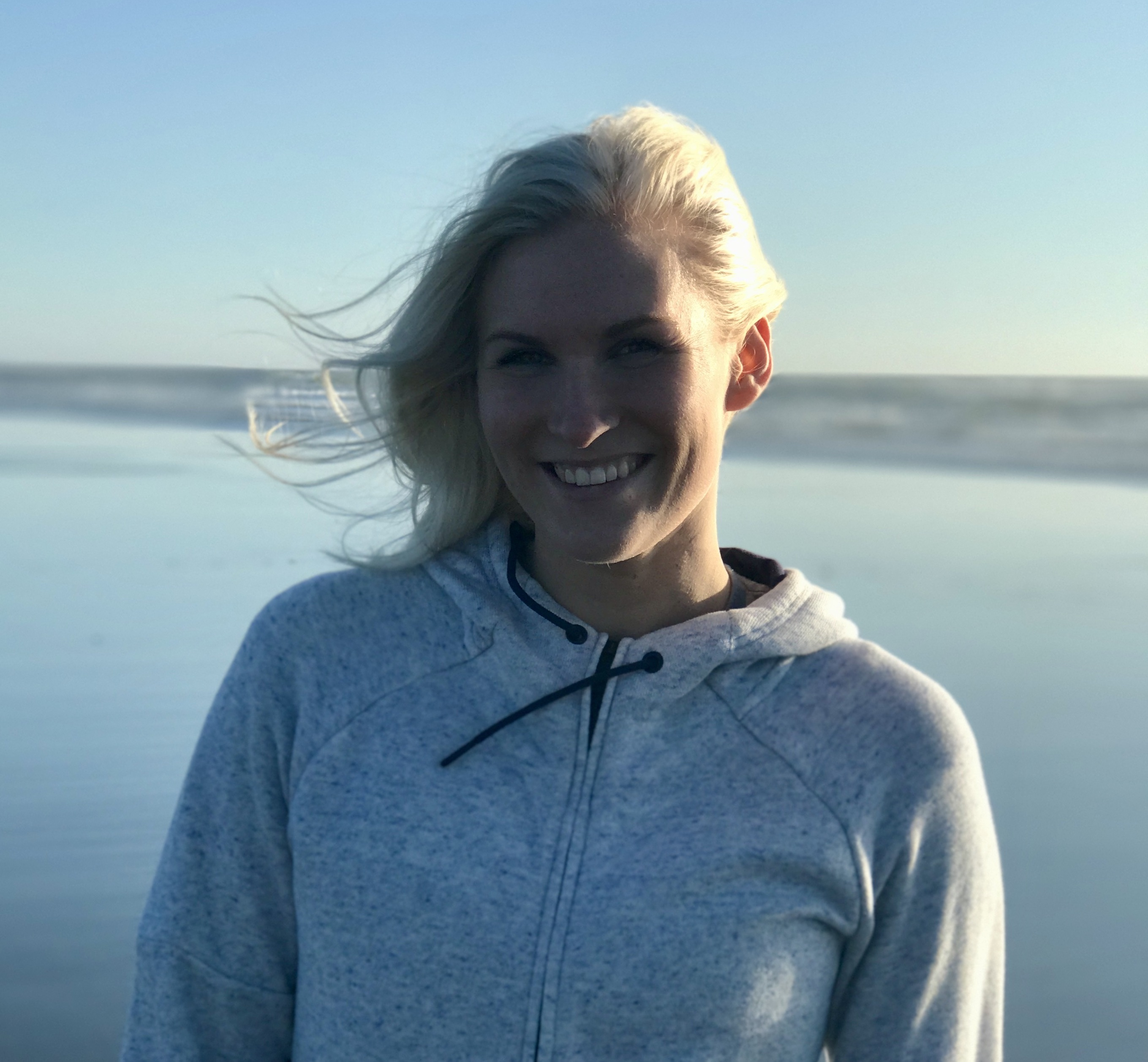
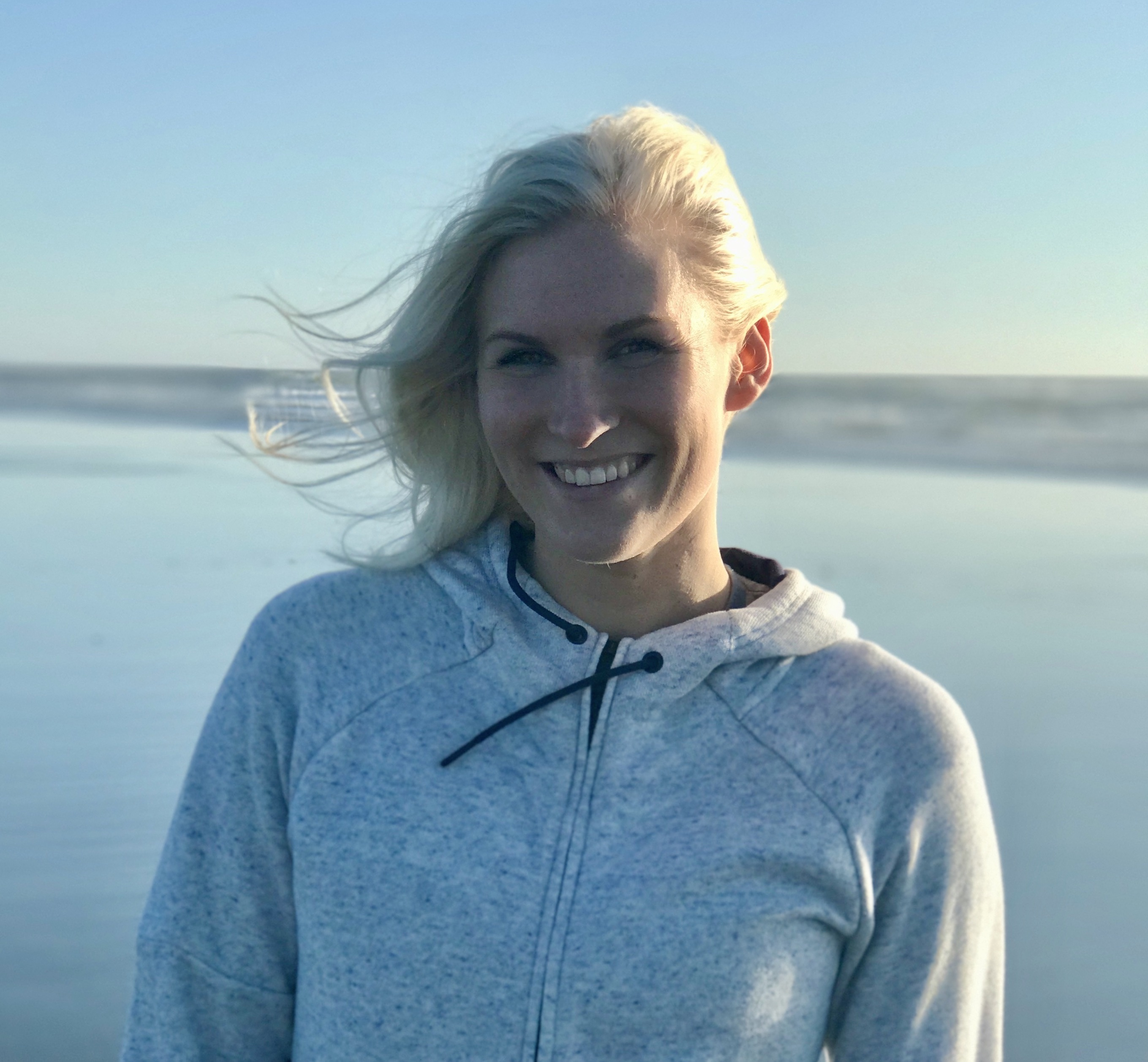
fixed the header bar from covering section titles when using page nav, edited intro profile picture to have less shadow, changed some of the wording in paragraphs, changed size of index and name to ‘contents’, index is now an ordered list with numbers showing and items to the left, changed button si

diff --git a/main/index.html b/main/index.html
@@ -11,9 +11,15 @@
     <link rel="stylesheet" href="style.css">
 </head>
 <body>
+
+    <!--*** bioSite Header ***-->
+
     <header class="header">
         <h4><a id="bioSite" href="#top">bioSite</a></h4>
     </header>
+
+    <!--*** Intro Section ***-->
+
     <div id="top">
         <h1>Kristen Crawford</h1>
         <hr>
@@ -22,21 +28,27 @@
                 <img id="profile-img" src="imgs/kc1.jpeg" alt="Portrait of Kristen">
             </figure>
             <div id="intro">
-                <p>Kristen is 27 years old from Pendleton, Oregon which is a small town in Eastern Oregon. She has spent most of her life (18 years) in a small town for which she says, "played a large part of who I am today." She currently lives in Portland now and enjoys the city life even as it differs very much from where she grew up. Kristen was a talented softball player growing up, often leading many of her youth teams to championships in tournaments and in league play. At the high school level and even in college she continued this successful run. She was also involved in Dance and other activities throughout her youth -- she explains, "I never wanted to settle for something early on, I knew I was a natural at certain things, but I wanted to try everything and keep my mind open to new experiences."</p>
+                <p>Kristen is 27 years old from Pendleton, Oregon which is a small town in Eastern Oregon. She has spent most of her life (18 years) in a small town for which she says, "played a large part of who I am today." She currently lives in Portland now and enjoys the city life even as it differs very much from where she grew up. Kristen was a talented softball pitcher growing up, often leading many of her youth teams to championships in tournaments and in league play. At the high school level and even in college she continued this successful run. She was also involved in Dance and other activities throughout her youth -- she explains, "I never wanted to settle for something early on, I knew I was a natural at certain things, but I wanted to try everything and keep my mind open to new experiences."</p>
             </div>
         </div>
     </div>
+ 
+    <!--*** Page Navigation ***-->
+
     <div id="index">
-        <h5>Table of Contents</h5>
-        <ul class="content2">
+        <h5>Contents</h5>
+        <ol class="content2">
             <li class="button"><a class="no-line" href="#childhood">Childhood</a></li>
             <li class="button"><a class="no-line" href="#hs">High School & Sports</a></li>
             <li class="button"><a class="no-line" href="#college">College & Softball</a></li>
             <li class="button"><a class="no-line" href="#career">Career</a></li>
             <li class="button"><a class="no-line" href="#present">Motherhood & Present</a></li>
             <li class="button"><a class="no-line" href="#misc">Miscellaneous</a></li>
-        </ul>
+        </ol>
     </div>
+
+        <!--*** Childhood Section ***-->
+
     <div id="childhood">
         <h2>Childhood</h2>
         <hr>
@@ -47,6 +59,9 @@
             </div>
         </div>
     </div>
+
+    <!--*** High School Section ***-->
+
     <div id="hs">
         <h2>High School & Sports</h2>
         <hr>
@@ -56,16 +71,19 @@
                 <figcaption>Kristen holding the Oregon High School 5A State Championship trophy.</figcaption>
             </figure>
             <div class="padsides">
-                <p>As mentioned, in high school extracurricular activities were a big part of Kristen’s life, she was involved in many things from sports and dance to social gatherings and working part-time as a server at the same time. She became a server in a high-end restaurant called <em>Cimmyotti's</em> at the age of 16 years old. When she talks about this experience, she describes that it had a large influence in helping her gain confidence with her people skills - something she relies on daily for her current career. Softball became a focal point at this point in her life and she was successful with it as well. She was a talented pitcher who led her teams to state championships in her junior and senior year. In 2012, she was named Oregon state player of the year as a senior.</p>
+                <p>Kristen was a student at Pendleton High School, where extracurricular activities became a large part of Kristen’s life. She was involved in many things from sports and dance to social gatherings, working part-time as a server and of course, being a student. She was a server in a high-end restaurant called <em>Cimmyotti's</em> at the age of 16 years old. When she talks about this experience, she describes that it had a large influence in helping her gain confidence with her people skills - something she relies on daily for her current career. Softball became a focal point at this stage in her life and she was successful with it as well. She was a talented pitcher who led her teams to state championships in her junior and senior years. In 2012, she was named Oregon Player of the Year as a senior at Pendleton High School.</p>
             </div>
         </div>
     </div>
+
+    <!--*** College Section ***-->
+
     <div id="college">
         <h2>College & Softball</h2>
         <hr>
         <div class="content">
             <div class="padsides">
-                <p>After high school Kristen attended community college at Mount Hood CC in Gresham, Oregon. Softball became even more important to her at this point in her life because it was now her main activity outside of school. In 2014, Kristen's Sophomore year, she once again led her team to a league title in the NWAC and was named Player of the Year. She finished the majority of her general studies at Mount Hood CC and transferred to Portland State University on a full ride athletic scholarship. <a href="http://pointstreak.com/baseball/team_stats.html?teamid=31279&seasonid=27364&view=pitching" target="_blank">Kristen's 2014 MHCC softball statistics</a>.</p>
+                <p>After high school, Kristen attended community college at Mount Hood CC in Gresham, Oregon. Softball became even more important to her at this point in her life because it was now her main activity outside of school. In 2014, Kristen's Sophomore year, she once again led her team to a league title in the NWAC and was named Player of the Year. She finished the majority of her general studies at Mount Hood CC and transferred to Portland State University on a full ride athletic scholarship. <a href="http://pointstreak.com/baseball/team_stats.html?teamid=31279&seasonid=27364&view=pitching" target="_blank">Kristen's 2014 MHCC softball statistics</a>.</p>
                 <p>At this point in her sporting career, Softball started to take a backseat due to the rocky relationship the coach had formed with the team, she said "took some of the fun out of the sport for everyone." The fact that she was going to be graduating soon also played a role as Kristen began to focus on her future more so than she had before. Although, she still found some success, her highest point at PSU came when she won Player of the Month in February 2016 playing in this highly competitive league. Kristen graduated from Portland State in 2016 with a Bachelor's Degree in communications.</p>
             </div>
             <figure id="mhcc-fig">
@@ -81,6 +99,9 @@
             </figure>
         </div>
     </div>
+
+    <!--*** Career Section ***-->
+
     <div id="career">
         <h2>Career</h2>
         <hr>
@@ -95,6 +116,9 @@
             </figure>
         </div>
     </div>
+
+    <!--*** Present Day Section ***-->
+
     <div id="present">
         <h2>Motherhood & Present Day</h2>
         <hr>
@@ -106,10 +130,13 @@
                 </figure>
             </div>
             <div class="padsides">
-                <p>On June 16, 2018 – Kristen became a mother to a beautiful child, Willow Watson. She now balances her life, hectic work schedule and partnership all while being a caring, responsible mother, which she describes as “the biggest challenge of all.” She plans to stay in Portland, Oregon long-term but hopes to travel and give Willow the opportunity to see new parts of the world like she loved to do as a kid.</p>
+                <p>On June 16, 2018 – Kristen became a mother to a beautiful child, Willow Watson. She now balances her personal life, hectic work schedule and partnership -- all while being a caring, responsible mother, which she describes as “the biggest challenge of all.” She plans to stay in Portland, Oregon long-term but hopes to travel and give Willow the opportunity to see new parts of the world like she loved to do as a kid.</p>
             </div>
         </div>
     </div>
+
+    <!--*** Misc Section ***-->
+
     <div id="misc">
         <h2>Miscellaneous</h2>
         <hr>
@@ -117,12 +144,15 @@
             <div class="padsides">
                 <ul>
                     <li>Kristen loves to adventure. She will often spend free time outdoors - camping, water activities, hiking or travelling.</li>
-                    <li>Kristen's personality is courageous, confident and adaptable. She likes to have fun as much as possible but knows when to turn it on when she needs.</li>
-                    <li>Other achievements include: Netflix bingeing, high-level diaper changing and holds the record for most popsicles consumed in a Summer.</li>
+                    <li>Kristen's personality is courageous, confident and adaptable. She likes to have fun as much as possible but knows how to be serious when she needs it.</li>
+                    <li>Other achievements include: Netflix bingeing, high-level diaper changing and holds the record for most popsicles consumed in one Summer.</li>
                 </ul>
             </div>
         </div>
     </div>
+
+    <!--*** Author Footer ***-->
+
     <footer class="footer">
         <address>
             Created by Mark Watson<br>

diff --git a/main/style.css b/main/style.css
@@ -6,6 +6,7 @@ html {
     font-family: 'Bitter', serif;
     background: #f8f8ff;
     color: #5F5261;
+    scroll-padding-top: var(--top-spacing);
 }
 
 body {
@@ -21,11 +22,14 @@ h1, h2, h5 {
 
 h1 {
     font-size: 3.052em;
-    margin-top: 0;
+    margin-top: -35px;
+    padding-top: 35px;
 }
 
 h2 {
     font-size: 2.441em;
+    margin-top: -20px;
+    padding-top: 35px;
 }
 
 h4 {
@@ -56,7 +60,7 @@ hr {
     height: 1px;
     background-color: #D8A7CA;
     border: none;
-    margin: 0 5px;
+    margin: 0 5px 15px;
 }
 
 a:hover {
@@ -110,6 +114,7 @@ address {
     border: 1px solid #BEAFDD;
     font-size: 0.8em;
     line-height: 1.25em;
+    margin-top: 15px;
 }
 
 #bioSite {
@@ -162,9 +167,9 @@ figcaption {
     background-color: #C7B8EA;
     border: 2px solid #C7B8EA;
     padding: 10px 20px;
-    display: inline-block;
-    width: 35%;
-    margin: auto;
+    /* display: inline-block; */
+    width: auto;
+    margin-right: auto;
 }
 
 .button:hover {
